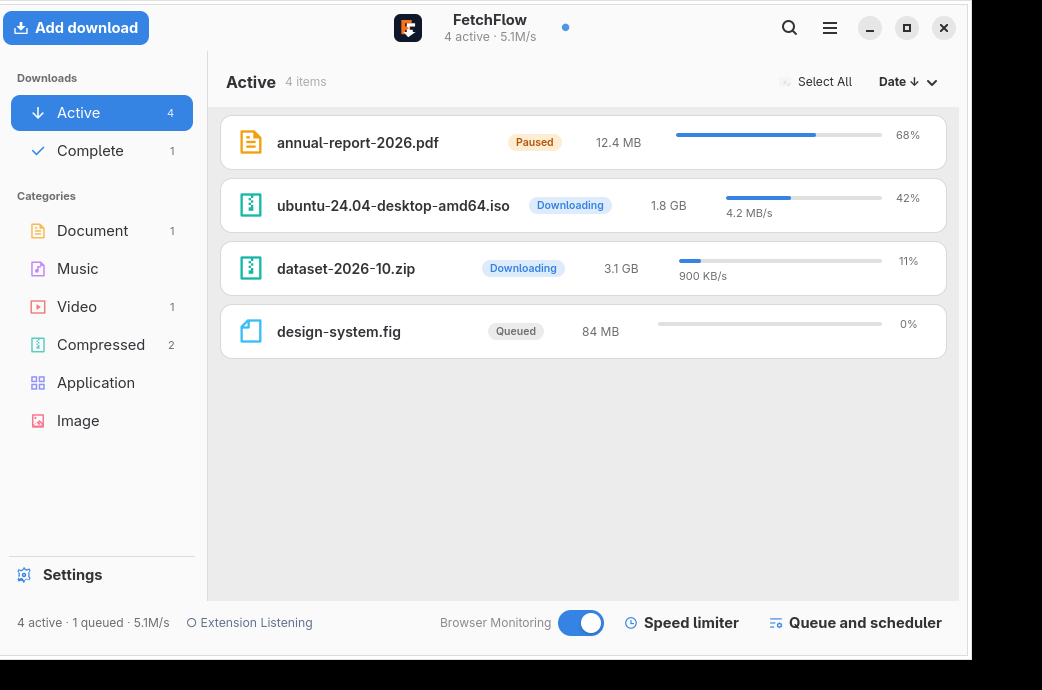
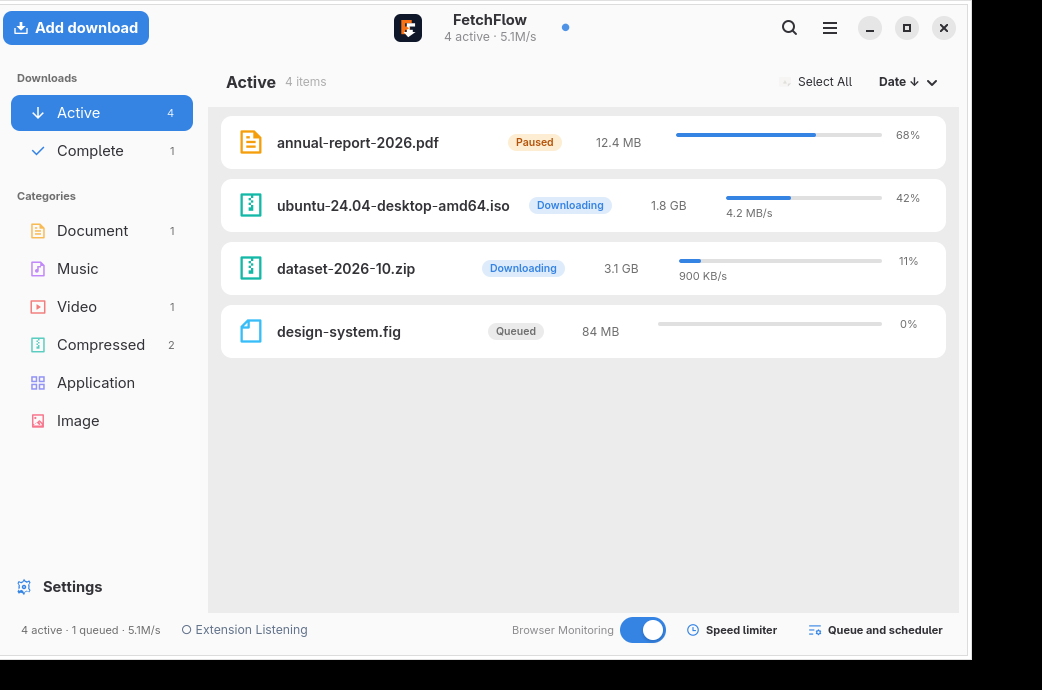
fix(gtk4): Settings dialog fits its page and drops the duplicate Close
- The header carried both a "Close" button and the native window control. The
  button is gone; the close request persists typed fields and then lets the
  native × close the window.
- The window was a fixed 900x700, so short pages such as Advanced opened with a
  large empty area. Pages now report their natural height and FitToPage sizes the
  window to the visible page, clamped to 380..700px: Advanced opens at ~520px,
  General keeps the maximum and scrolls.
- docs/design.md documents the dialog contract.

Suggestions implemented:
- Smoke self-test compares the .bottom-bar rule blocks of both stylesheets, so
  the light/dark footer drift that slipped through cannot recur (verified: the
  guard fails when a rule is altered).
- capture-screenshots.sh gained --parity: it captures the main window in both
  themes via the new FETCHFLOW_THEME_MODE override and fails when the measured
  footer bands differ (currently both 626-633).

Changed region(s): [[0.4299, 0.8826, 0.9213, 0.9435], [0.0, 0.8217, 0.3071, 0.9435]]

diff --git a/app/XDM/XDM.Gtk4.UI/Dialogs/SettingsDialog.cs b/app/XDM/XDM.Gtk4.UI/Dialogs/SettingsDialog.cs
@@ -103,20 +103,19 @@ namespace XDM.Gtk4UI.Dialogs
             window = Window.New();
             window.Title = TextResource.GetText("TITLE_SETTINGS") ?? "Settings";
             window.Modal = true;
-            window.SetDefaultSize(900, 700);
+            window.SetDefaultSize(900, 600);
             if (parent != null) window.SetTransientFor(parent);
 
-            // Header: title + Close only; every control applies immediately
+            // Header: title only. Closing uses the native window control, and the
+            // close request persists first, so no duplicate Close button is needed.
             var header = HeaderBar.New();
             header.TitleWidget = Label.New(window.Title);
-            var closeBtn = Button.NewWithLabel(TextResource.GetText("BTN_CLOSE") ?? "Close");
-            closeBtn.OnClicked += (_, _) =>
+            window.SetTitlebar(header);
+            window.OnCloseRequest += (_, _) =>
             {
                 Persist();
-                window.Close();
+                return false;
             };
-            header.PackEnd(closeBtn);
-            window.SetTitlebar(header);
 
             // Tab strip (linked toggle buttons with icons), like GNOME view switchers
             tabs = Box.New(Orientation.Horizontal, 0);
@@ -572,8 +571,27 @@ namespace XDM.Gtk4UI.Dialogs
         {
             var scroll = ScrolledWindow.New();
             scroll.SetPolicy(PolicyType.Never, PolicyType.Automatic);
+            // Report the content height, so FitToPage can size the dialog to it
+            scroll.SetPropagateNaturalHeight(true);
             scroll.SetChild(content);
             return scroll;
+        }
+
+        // Sizes the dialog to the page on screen, within sane bounds: a short page
+        // (Advanced) must not open with empty space below its last card
+        private void FitToPage(string name)
+        {
+            if (stack.GetChildByName(name) is not Widget page)
+            {
+                return;
+            }
+
+            page.Measure(Orientation.Vertical, PageWidth, out _, out var natural, out _, out _);
+            const int chrome = 104;
+            const int minHeight = 380;
+            const int maxHeight = 700;
+            var height = Math.Clamp(natural + chrome, minHeight, maxHeight);
+            window.SetDefaultSize(900, height);
         }
 
         // Vertical page column with consistent width and margins
@@ -764,6 +782,7 @@ namespace XDM.Gtk4UI.Dialogs
         private void SelectTab(string name)
         {
             stack.VisibleChildName = name;
+            FitToPage(name);
             var index = Array.IndexOf(PageNames, name);
             var child = tabs.GetFirstChild();
             for (var i = 0; child != null && i < PageNames.Length; child = child.GetNextSibling(), i++)

diff --git a/app/XDM/XDM.Gtk4.UI/MainWindowSelfTest.cs b/app/XDM/XDM.Gtk4.UI/MainWindowSelfTest.cs
@@ -93,7 +93,59 @@ namespace XDM.Gtk4UI
             Expect(!string.IsNullOrEmpty(about.GetIssueUrl()), "about issue url set");
             Expect(!string.IsNullOrEmpty(about.GetSupportUrl()), "about support url set");
 
+            // Footer parity guard: the light stylesheet once kept a stale
+            // .bottom-bar padding rule, making its footer bar 15px taller than the
+            // dark one. Both stylesheets must declare the same footer rules.
+            Expect(FooterRulesMatch(), "theme footer rules match");
+
             Console.WriteLine("[GTK4 SMOKE] list/theme self-test passed");
+        }
+
+
+        // Collapses the .bottom-bar rule blocks of both stylesheets for comparison
+        private static bool FooterRulesMatch()
+        {
+            var light = FooterRules("gtk4-light.css");
+            var dark = FooterRules("gtk4-dark.css");
+            return light.Length > 0 && light == dark;
+        }
+
+        // Extracts and normalises every .bottom-bar declaration block in a stylesheet
+        private static string FooterRules(string fileName)
+        {
+            try
+            {
+                var path = System.IO.Path.Combine(
+                    AppDomain.CurrentDomain.BaseDirectory, "theme", fileName);
+                if (!System.IO.File.Exists(path))
+                {
+                    return "";
+                }
+
+                var text = System.IO.File.ReadAllText(path);
+                var builder = new System.Text.StringBuilder();
+                var index = text.IndexOf(".bottom-bar", StringComparison.Ordinal);
+                while (index >= 0)
+                {
+                    var open = text.IndexOf('{', index);
+                    var close = open < 0 ? -1 : text.IndexOf('}', open);
+                    if (open < 0 || close < 0)
+                    {
+                        break;
+                    }
+                    var selector = text.Substring(index, open - index).Trim();
+                    var body = text.Substring(open + 1, close - open - 1);
+                    builder.Append(selector).Append('{')
+                        .Append(string.Join(" ", body.Split((char[]?)null, StringSplitOptions.RemoveEmptyEntries)))
+                        .Append("}\n");
+                    index = text.IndexOf(".bottom-bar", close, StringComparison.Ordinal);
+                }
+                return builder.ToString();
+            }
+            catch (Exception)
+            {
+                return "";
+            }
         }
 
         // Builds a live in-progress row projection for the self-test

diff --git a/app/XDM/XDM.Gtk4.UI/Gtk4Theme.cs b/app/XDM/XDM.Gtk4.UI/Gtk4Theme.cs
@@ -44,10 +44,18 @@ namespace XDM.Gtk4UI
         // Raw Config.ThemeMode value currently applied
         public static int ActiveMode { get; private set; } = ModeFollowSystem;
 
-        // Applies the mode saved in configuration
+        // Applies the mode saved in configuration. FETCHFLOW_THEME_MODE=light|dark
+        // overrides it for previews and screenshots, so a run can pin one theme
+        // without touching the user's settings.
         public static void ApplyFromConfig(Widget anchor)
         {
-            ApplyMode(anchor, Config.Instance.ThemeMode, persist: false);
+            var mode = Environment.GetEnvironmentVariable("FETCHFLOW_THEME_MODE") switch
+            {
+                "light" => ModeLight,
+                "dark" => ModeDark,
+                _ => Config.Instance.ThemeMode
+            };
+            ApplyMode(anchor, mode, persist: false);
         }
 
         // Applies a mode, optionally persisting it, and re-applies on system changes

diff --git a/docs/design.md b/docs/design.md
@@ -367,6 +367,11 @@ Native GTK 4 stylesheets live in `app/XDM/XDM.Gtk4.UI/theme/` (`gtk4-dark.css` a
   the view's own click handler runs afterwards and would replace the accumulated
   multi-selection with that single row. `ToggleRowAt` owns the selection change and the
   checkbox state so the two cannot drift.
+- **Settings dialog:** icon tab strip over grouped boxed-list cards; every control applies
+  immediately, so the header carries only the title and the native window control closes it
+  (closing persists any typed field). The window measures the visible page
+  (`FitToPage`) and sizes itself between 380 and 700 px, so a short page such as Advanced
+  opens without empty space below its last card while long pages scroll.
 - **Media downloader:** `VideoDownloaderWindow` is a four-page `Gtk.Stack` view over the shared
   `VideoDownloaderUIController` (URL + optional browser cookies + credentials → resolving
   spinner → ticked result list with quality and download actions → error page).
